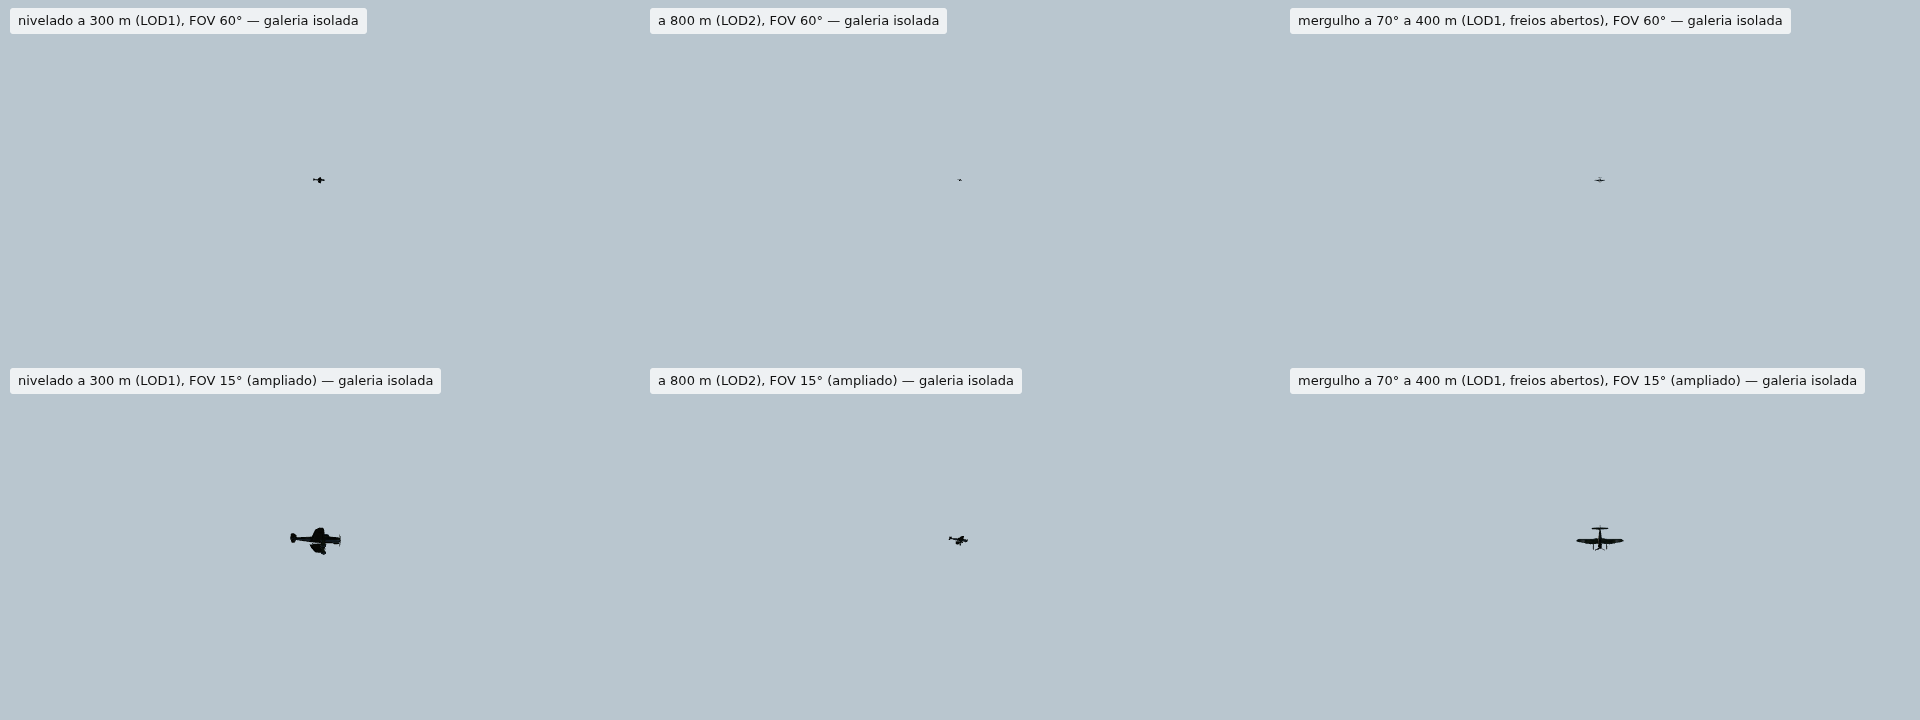
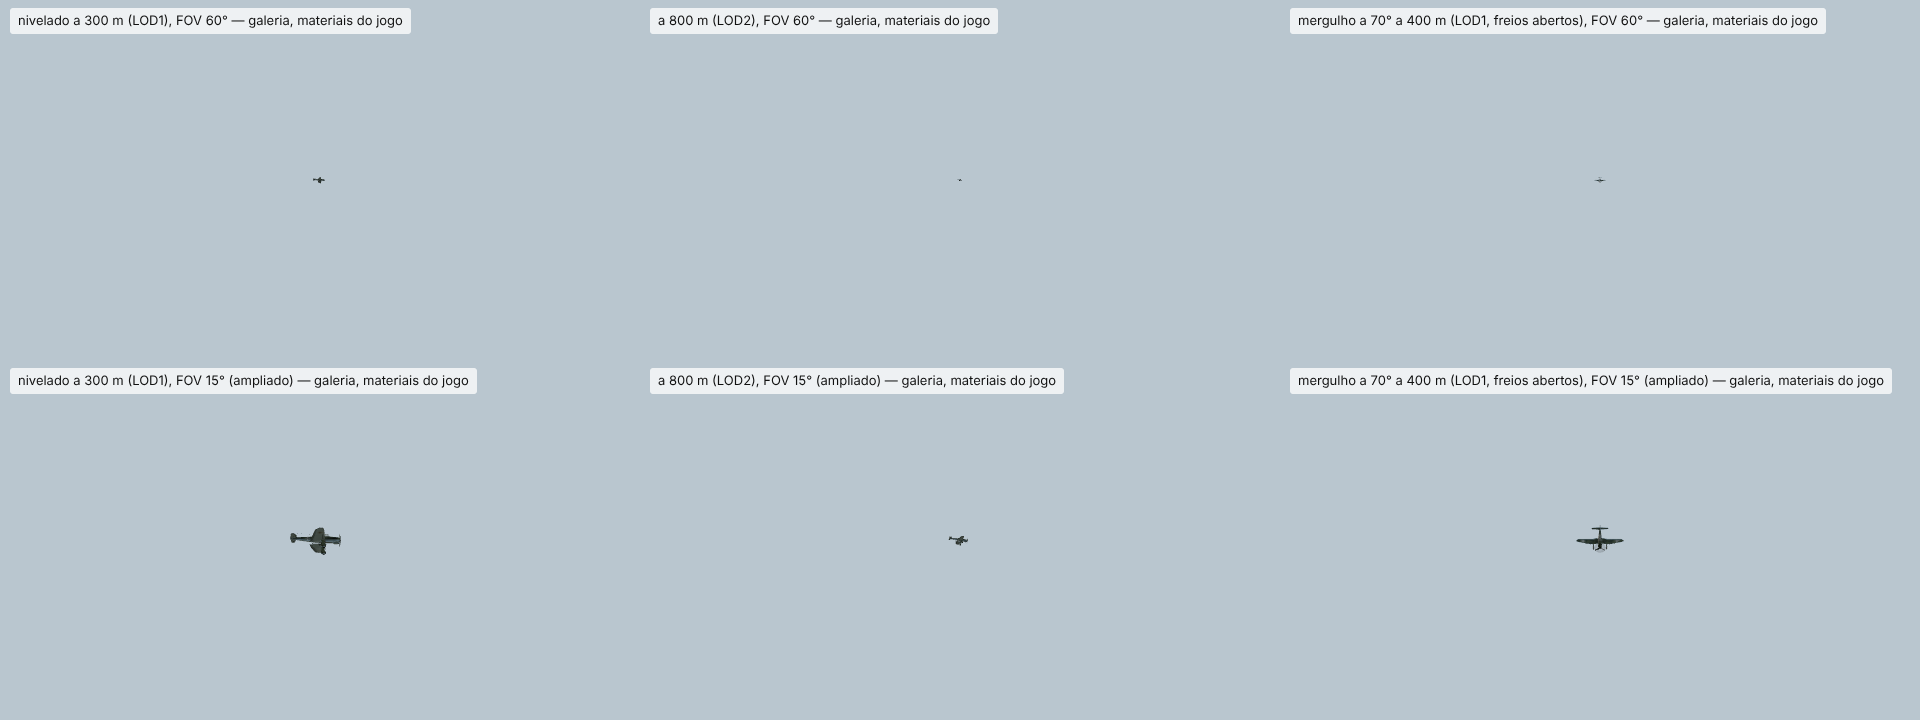
M01 Ju 87: materiais por avião, céu de ambiente, fade e histerese de LOD no runtime
src/render/m01-aircraft.js reúne a apresentação dos três Ju 87 do primeiro
raid; tudo é função do relógio guardado (pausa/restauro determinísticos):
- materiais por avião (clones leves, texturas/geometria partilhadas) com
  pequenas diferenças de tom e rugosidade, sem marcas de unidade inventadas;
- céu de ambiente 256×128 só nos aviões: o vidro e o metal reflectem e a
  barriga RLM 65 recebe o ressalto do solo, em vez de um recorte preto;
- hélices com rpm e fase próprias;
- inclinação para o lado da deriva lateral do caminho e pequenas
  oscilações, sem mudar posição nem rumo (rotation.y = 0,1);
- LOD com histerese de 10 % (o mínimo por qualidade prevalece);
- fade por dithering (alphaHash) na entrada após evt_m01_planes_heard e na
  volta de 90 s do caminho, que teleportava os aviões ~360 m.

Trajectória, tempos, eventos, dano e Simulation inalterados; diagnósticos
m01.aircraft ganham attitude e fade. A galeria pode aplicar os materiais
do jogo (opção runtime) e render/raid-capture.mjs captura o raid real no
build de produção com contadores do renderer.

Claude-Session: https://claude.ai/code/session_01Gg7oQ5diRFBEMTGkVrQZpi

diff --git a/src/render/m01-view.js b/src/render/m01-view.js
@@ -18,6 +18,7 @@ import { M01Panzerzug } from './m01-panzerzug.js';
 import {soldierVisualVariant} from './m01-soldier-variation.js';
 import { M01CombatFeedback } from './m01-combat-feedback.js';
 import {M01BridgePortalPolish,bridgeMaterialSlot} from './m01-bridge-portal-polish.js';
+import {JU87_LOD_DISTANCES,JU87_QUALITY_FLOOR,ju87Attitude,ju87Fade,ju87PropellerTime,selectJu87Level,ju87SkyEnvironment,instanceJu87Materials,setJu87Fade} from './m01-aircraft.js';
 
 export const M01_BATTLEFIELD_FX_LIMITS=Object.freeze({bursts:16,flash:16,core:48,fire:96,smoke:128,dust:128,shards:96,lights:1});
 const FX_DENSITY={low:.55,medium:.78,high:1};
@@ -381,7 +382,7 @@ export class M01View {
     this.carryBody.visible=this.carryCrate.visible=false;
   }
   createAircraft(){
-    this.planes=[];this.aircraftSources=new Map();this.aircraftMixers=[];this.aircraftRevision=0;
+    this.planes=[];this.aircraftSources=new Map();this.aircraftMixers=[];this.aircraftMaterials=[];this.aircraftRevision=0;
     for(let i=0;i<3;i++){
       const plane=new THREE.LOD(),proxy=new THREE.Group();plane.autoUpdate=false;proxy.userData.lod='proxy';this.scene.add(plane);
       this.mesh('box','dark',[0,0,0],[1.2,1.3,11],proxy);
@@ -404,29 +405,35 @@ export class M01View {
       }catch{/* The existing silhouette keeps the raid visible when optional art is unavailable. */}
     }));
     if(this.disposed||!this.aircraftSources.size)return;
-    for(const plane of this.planes){
-      plane.clear();plane.levels.length=0;
+    const sky=this.aircraftSky??=ju87SkyEnvironment();
+    this.planes.forEach((plane,i)=>{
+      plane.clear();plane.levels.length=0;plane.userData.level=null;
       for(const lod of [0,1,2]){
         const source=this.aircraftSources.get(lod);if(!source)continue;
         const model=source.scene.clone(true);model.userData.lod=lod;
         // The raid's bomb type and individual releases are not established: keep the optional payload hidden.
         const bomb=model.getObjectByName('bomb_sc250');if(bomb)bomb.visible=false;
+        model.userData.materials=instanceJu87Materials(model,i,sky);this.aircraftMaterials.push(...model.userData.materials);
         const mixer=new THREE.AnimationMixer(model),spin=source.animations.find(c=>c.name==='propeller_spin');
         if(spin)mixer.clipAction(spin).play();model.userData.propellerMixer=mixer;this.aircraftMixers.push(mixer);
-        plane.addLevel(model,[0,150,600][lod]);
+        plane.addLevel(model,JU87_LOD_DISTANCES[lod]);
       }
-    }
+    });
     this.aircraftRevision++;
   }
-  updateAircraft(state,time,player){
-    const quality=this.owner.quality;
+  updateAircraft(state,time,player,heardAt){
+    const floor=JU87_QUALITY_FLOOR[this.owner.quality]??0,fade=ju87Fade(time,heardAt);
     this.planes.forEach((plane,i)=>{
-      plane.visible=state.stukas;plane.position.set(80+Math.sin(time*.02+i)*250,160+i*20,240-time%90*4+i*30);plane.rotation.y=.1;
+      // The raid path and heading are unchanged; attitude, fade and LOD below are presentation only.
+      plane.visible=state.stukas;plane.position.set(80+Math.sin(time*.02+i)*250,160+i*20,240-time%90*4+i*30);
+      const {pitch,bank}=ju87Attitude(time,i);plane.rotation.set(pitch,.1,bank,'YXZ');
       const distance=Math.hypot(plane.position.x-player.x,plane.position.y-player.y,plane.position.z-player.z);
-      const selected=plane.getObjectForDistance(Math.max(distance,quality==='low'?600:quality==='medium'?150:0));
-      for(const {object} of plane.levels)object.visible=object===selected;
-      // Deterministic presentation at an estimated 1500 rpm; pause and restore sample the same saved clock.
-      selected?.userData.propellerMixer?.setTime((time*25)%1);
+      const level=selectJu87Level(plane.levels,distance,floor,plane.userData.level),selected=plane.levels[level]?.object;
+      plane.userData.level=level;plane.userData.fade=fade;
+      for(const {object} of plane.levels)object.visible=object===selected&&fade>.004;
+      if(selected?.userData.materials)setJu87Fade(selected.userData.materials,fade);
+      // Deterministic presentation at an estimated ~1500 rpm; pause and restore sample the same saved clock.
+      selected?.userData.propellerMixer?.setTime(ju87PropellerTime(time,i));
     });
     this.raidPlane.visible=state.secondRaid;this.raidPlane.position.set(-700,1100,800-(time%150)*8);
   }
@@ -480,7 +487,7 @@ export class M01View {
     for(const kit of this.kit)for(const piece of kit.pieces){const s=state.parts[piece.name];piece.node.visible=Boolean(s&&s.visible&&s.lod===kit.file.lod);}
     this.updateActors(sim.actors,time,sim.player,sim.battleClock);this.syncDamage(sim,state);this.lighting(sim);
     this.train.visible=state.train963;this.panzerzug.visible=state.panzerzug;
-    this.updateAircraft(state,time,sim.player);
+    this.updateAircraft(state,time,sim.player,sim.consumed?.evt_m01_planes_heard);
     const player=sim.player,eye=eyePosition(player),dir=aimDirection(player.angle,player.pitch);
     const bob=player.moveBlend*Math.sin(time*(player.sprinting?14:9))*.014;
     const legacyShake=time<this.shakeUntil?Math.sin(time*85)*.012:0,feedback=this.combatFeedback.sample(time,this.owner.quality);
@@ -532,14 +539,14 @@ export class M01View {
     requiredAssetFailures:this.assets.failures.filter(f=>manifest.files.some(m=>typeof m.lod==='number'&&m.file===f.path)),
     characters:this.characters?.diagnostics,viewModel:this.viewModel?.stats,
     locomotive:this.locomotive.diagnostics,panzerzug:this.panzerzugArt.diagnostics,wagons:this.wagons.diagnostics,yardWagons:this.yardWagons.diagnostics,
-    aircraft:{loaded:[...this.aircraftSources.keys()].sort(),planes:this.planes.map(p=>{const model=p.levels.find(l=>l.object.visible)?.object,prop=model?.getObjectByName('propeller');return {visible:p.visible,lod:model?.userData.lod,position:p.position.toArray(),propeller:prop?.quaternion.toArray()};})},
+    aircraft:{loaded:[...this.aircraftSources.keys()].sort(),planes:this.planes.map(p=>{const model=p.levels.find(l=>l.object.visible)?.object,prop=model?.getObjectByName('propeller');return {visible:p.visible,lod:model?.userData.lod,position:p.position.toArray(),attitude:[p.rotation.x,p.rotation.y,p.rotation.z],fade:p.userData.fade,propeller:prop?.quaternion.toArray()};})},
     renderedFrames:this.renderedFrames??0,smokePuffs:this.atmosphere.count,environmentInstances:this.environment?.resources.reduce((n,b)=>n+(b.visible===false?0:b.count),0)??0,
     environmentProps:this.environment?.propDiagnostics,bridgePortalPolish:this.portalPolish?.diagnostics,vegetation:this.environment?.diagnostics,actorPoses:{...this.actorPoses},actorAnimations:{...this.actorAnimations},
     visiblePieces:this.kit.reduce((n,k)=>n+k.pieces.filter(p=>p.node.visible).length,0),fireEffects:{...this.fx},muzzlePresentation:{...this.muzzlePresentation},
     combatFeedback:this.combatFeedback.diagnostics(this.lastClock,this.owner.quality),
     battlefieldFx:{active:this.bursts.length,counts:{...this.battlefieldFxCounts},limits:M01_BATTLEFIELD_FX_LIMITS,extraLights:this.explosionLight?.visible?1:0,atmosphere:this.atmosphere.diagnostics}};}
   dispose(){
-    this.disposed=true;for(const mixer of this.aircraftMixers){mixer.stopAllAction();mixer.uncacheRoot(mixer.getRoot());}this.viewModel?.dispose();this.characters?.dispose();
+    this.disposed=true;for(const mixer of this.aircraftMixers){mixer.stopAllAction();mixer.uncacheRoot(mixer.getRoot());}for(const m of this.aircraftMaterials??[])m.dispose();this.aircraftSky?.dispose();this.viewModel?.dispose();this.characters?.dispose();
     this.yardWagons.dispose();this.wagons.dispose();this.locomotive.dispose();this.panzerzugArt.dispose();this.portalPolish?.dispose();this.assets.dispose();this.environment?.dispose();this.atmosphere.dispose();this.contactMaterial?.dispose();this.geometry.forEach(g=>g.dispose());
     const textures=new Set();for(const m of Object.values(this.materials)){if(m.map)textures.add(m.map);if(m.bumpMap)textures.add(m.bumpMap);m.dispose();}textures.forEach(t=>t.dispose());
     this.scene.traverse(n=>{if(n.isInstancedMesh)n.dispose();});this.scene.clear();this.weaponScene.clear();

diff --git a/tests/m01-aircraft-runtime.test.js b/tests/m01-aircraft-runtime.test.js
@@ -53,3 +53,62 @@ test('missing optional Ju 87 art keeps the silhouettes; partial failure uses ava
   assert.equal(cancelled.aircraftRevision,0);assert.equal(cancelled.aircraftMixers.length,0);
   assert.ok(cancelled.planes.every(p=>p.levels.length===1));
 });
+
+function namedFixture(){
+  // Same node/material layout as the generated GLB: atlas body, translucent canopy and propeller disc.
+  const {view,sources}=fixture();
+  for(const [lod,{scene}] of sources){
+    const body=new THREE.MeshStandardMaterial({name:'ju87_b1',map:new THREE.Texture()}),glass=new THREE.MeshStandardMaterial({name:'ju87_glass',transparent:true,opacity:.3});
+    scene.getObjectByName('propeller').material=body;
+    for(const [name,material] of [['fuselage',body],['canopy',glass]]){const m=new THREE.Mesh(view.box,material);m.name=name;scene.add(m);}
+    scene.userData.body=body;scene.userData.lod=lod;
+  }
+  return {view,sources};
+}
+
+test('each Ju 87 gets its own light-weight material instances over shared textures, propeller rpm/phase and attitude',async()=>{
+  const {view,sources}=namedFixture();await view.loadAircraft();
+  const time=33.4,state={stukas:true,secondRaid:false},player={x:0,y:0,z:0};view.owner.quality='high';
+  view.updateAircraft(state,time,player);
+  const bodies=view.planes.map(p=>p.levels[0].object.getObjectByName('fuselage').material);
+  assert.equal(new Set(bodies).size,3,'one material instance per aircraft');
+  assert.ok(bodies.every(m=>m.map===sources.get(0).scene.userData.body.map&&m.alphaHash&&m.envMap===view.aircraftSky),'textures shared, dithered fade, sky reflections');
+  assert.equal(sources.get(0).scene.userData.body.alphaHash,false,'source GLB material is never modified');
+  assert.notDeepEqual(bodies[1].color.toArray(),bodies[0].color.toArray(),'paint batches differ slightly');
+  const model=view.planes[0].levels[0].object;assert.equal(model.getObjectByName('propeller').material,model.getObjectByName('fuselage').material,'one instance per GLB material');
+  const props=view.planes.map(p=>p.levels.find(l=>l.object.visible).object.getObjectByName('propeller').quaternion.toArray());
+  assert.notDeepEqual(props[0],props[1]);assert.notDeepEqual(props[1],props[2]);
+  // Heading and path are unchanged; bank/pitch come from the same saved clock, so pause/restore repeats them.
+  view.planes.forEach((p,i)=>{
+    assert.deepEqual(p.position.toArray(),[80+Math.sin(time*.02+i)*250,160+i*20,240-time%90*4+i*30]);
+    assert.equal(p.rotation.y,.1);assert.equal(p.rotation.order,'YXZ');
+    assert.ok(Math.abs(p.rotation.z)<.11&&Math.abs(p.rotation.x)<.02&&p.rotation.z!==0);
+  });
+  const attitude=view.planes.map(p=>p.rotation.toArray());view.updateAircraft(state,time+7,player);view.updateAircraft(state,time,player);
+  assert.deepEqual(view.planes.map(p=>p.rotation.toArray()),attitude);
+});
+
+test('Ju 87 fade hides the 90 s path wrap and eases in after the planes are heard, deterministically',async()=>{
+  const {view}=namedFixture();await view.loadAircraft();
+  const state={stukas:true,secondRaid:false},player={x:0,y:0,z:0};view.owner.quality='high';
+  const shown=time=>view.planes[0].levels.find(l=>l.object.visible);
+  view.updateAircraft(state,180.0,player);assert.equal(view.planes[0].userData.fade,0);assert.equal(shown(),undefined,'hidden exactly at the wrap');
+  assert.equal(view.planes[0].visible,true,'raid state is unchanged; only the rendering fades');
+  view.updateAircraft(state,181.25,player);const half=view.planes[0].userData.fade,glass=shown().object.getObjectByName('canopy').material;
+  assert.ok(half>.3&&half<.7);assert.ok(Math.abs(glass.opacity-.3*half)<1e-9,'translucent parts fade from their own opacity');
+  view.updateAircraft(state,200,player);assert.equal(view.planes[0].userData.fade,1);
+  assert.equal(shown().object.getObjectByName('fuselage').material.opacity,1);
+  view.updateAircraft(state,200,player,199);const entering=view.planes[0].userData.fade;assert.ok(entering>0&&entering<.5,'fades in after planes_heard');
+  view.updateAircraft(state,215,player,199);assert.equal(view.planes[0].userData.fade,1);
+  view.updateAircraft(state,200,player,199);assert.equal(view.planes[0].userData.fade,entering,'restoring the clock restores the fade');
+});
+
+test('Ju 87 LOD keeps 10 % hysteresis at thresholds while the quality floor always applies',async()=>{
+  const {view}=namedFixture();await view.loadAircraft();const state={stukas:true},time=40;
+  const p0=()=>view.planes[0].position,at=d=>({x:p0().x,y:p0().y-d,z:p0().z});
+  const lod=d=>{view.updateAircraft(state,time,at(d));return view.planes[0].levels.find(l=>l.object.visible).object.userData.lod;};
+  view.owner.quality='high';view.updateAircraft(state,time,{x:0,y:0,z:0});
+  assert.deepEqual([160,145,140,130,160,170,640,670,560,520].map(lod),[1,1,1,0,0,1,1,2,2,1]);
+  view.owner.quality='low';assert.equal(lod(10),2,'low quality never shows LOD0/1');
+  view.owner.quality='medium';assert.equal(lod(10),1);
+});

diff --git a/src/render/m01-aircraft.js b/src/render/m01-aircraft.js
@@ -1,0 +1,69 @@
+import * as THREE from 'three';
+
+// Presentation only for the three Ju 87 of the first raid. Path, timings, events and damage stay with the
+// existing raid code and M01Simulation; everything here is a pure function of the saved clock (pause/restore safe).
+export const JU87_LOD_DISTANCES=Object.freeze([0,150,600]);
+export const JU87_QUALITY_FLOOR=Object.freeze({low:600,medium:150,high:0});
+// Small per-aircraft differences (paint batch, wear, engine): not unit markings, which remain undocumented.
+export const JU87_VARIANTS=Object.freeze([
+  Object.freeze({tint:[1,1,1],roughness:1,rps:25,phase:0}),
+  Object.freeze({tint:[.95,.98,.94],roughness:.93,rps:24.6,phase:.37}),
+  Object.freeze({tint:[1.04,1.03,.99],roughness:1.06,rps:25.4,phase:.71}),
+]);
+const JU87_LOOP=90,FADE_S=2.5,ENTER_S=3,LOD_HYSTERESIS=.1;
+const smooth=x=>{const t=Math.min(1,Math.max(0,x));return t*t*(3-2*t);};
+const variantOf=i=>JU87_VARIANTS[i%JU87_VARIANTS.length];
+
+/** Bank into the existing lateral drift plus slight per-aircraft motion; heading (rotation.y) is unchanged. */
+export function ju87Attitude(time,i){
+  return {pitch:.018*Math.sin(time*.47+i*1.7),bank:-.07*Math.cos(time*.02+i)+.03*Math.sin(time*.61+i*2.3)};
+}
+/** Dithered visibility: fade in after the planes are heard and across the 90 s wrap of the existing path. */
+export function ju87Fade(time,heardAt){
+  const cycle=((time%JU87_LOOP)+JU87_LOOP)%JU87_LOOP,wrap=Math.min(smooth(cycle/FADE_S),smooth((JU87_LOOP-cycle)/FADE_S));
+  return Number.isFinite(heardAt)?Math.min(wrap,smooth((time-heardAt)/ENTER_S)):wrap;
+}
+/** Propeller clip time (one revolution = 1 s) at ~1500 rpm, each aircraft with its own rpm and phase. */
+export function ju87PropellerTime(time,i){const v=variantOf(i),t=(time*v.rps+v.phase)%1;return t<0?t+1:t;}
+/** LOD index with 10 % hysteresis around each threshold; the quality floor always wins. */
+export function selectJu87Level(levels,distance,floor,current){
+  const pick=d=>{let k=0;for(let j=1;j<levels.length;j++)if(d>=levels[j].distance)k=j;return k;};
+  const d=Number.isFinite(distance)?distance:Infinity,min=pick(floor),want=Math.max(min,pick(Math.max(d,floor)));
+  if(!Number.isInteger(current)||current<min||current>=levels.length||current===want)return want;
+  const lo=current?levels[current].distance*(1-LOD_HYSTERESIS):0,hi=current+1<levels.length?levels[current+1].distance*(1+LOD_HYSTERESIS):Infinity;
+  return d>=lo&&d<hi?current:want;
+}
+/**
+ * Tiny equirectangular dawn sky (PMREM is done by three.js) so the canopy and bare metal reflect it and the RLM 65
+ * underside receives the ground bounce that the scene's hemisphere light alone leaves near black against the sky.
+ */
+export function ju87SkyEnvironment(){
+  const w=256,h=128,data=new Uint8Array(w*h*4),zenith=new THREE.Color('#9fb4cc'),horizon=new THREE.Color('#d3d7d2'),ground=new THREE.Color('#6f6752'),c=new THREE.Color();
+  for(let y=0;y<h;y++){
+    const el=((y+.5)/h-.5)*Math.PI;   // row 0 is the bottom of an equirectangular map
+    if(el>=0)c.copy(horizon).lerp(zenith,smooth(el/(Math.PI/2)*1.6));else c.copy(horizon).lerp(ground,smooth(-el/(Math.PI/2)*5));
+    const {r,g,b}=c.getRGB({},THREE.SRGBColorSpace);   // THREE.Color is linear; the texture stores sRGB bytes
+    for(let x=0;x<w;x++)data.set([r*255,g*255,b*255,255].map(Math.round),(y*w+x)*4);
+  }
+  const texture=new THREE.DataTexture(data,w,h);
+  texture.mapping=THREE.EquirectangularReflectionMapping;texture.colorSpace=THREE.SRGBColorSpace;
+  texture.magFilter=texture.minFilter=THREE.LinearFilter;texture.needsUpdate=true;
+  return texture;
+}
+/** Per-aircraft material instances (textures and geometry stay shared) with the variant and a dithered fade. */
+export function instanceJu87Materials(model,i,sky){
+  const v=variantOf(i),own=new Map();
+  model.traverse(o=>{
+    if(!o.isMesh)return;
+    let m=own.get(o.material);
+    if(!m){
+      m=o.material.clone();m.userData.baseOpacity=m.opacity;
+      if(m.name==='ju87_b1'){m.color.multiply(new THREE.Color(...v.tint));m.roughness*=v.roughness;m.alphaHash=true;m.envMap=sky;m.envMapIntensity=.85;}
+      else if(m.name==='ju87_glass'){m.envMap=sky;m.envMapIntensity=1.2;}
+      own.set(o.material,m);
+    }
+    o.material=m;
+  });
+  return [...own.values()];
+}
+export function setJu87Fade(materials,fade){for(const m of materials)m.opacity=m.userData.baseOpacity*fade;}

diff --git a/tools/assets/m01-aircraft/render/viewer.html b/tools/assets/m01-aircraft/render/viewer.html
@@ -15,6 +15,9 @@
 import * as THREE from 'three';
 import { GLTFLoader } from 'three/addons/loaders/GLTFLoader.js';
 import * as SkeletonUtils from 'three/addons/utils/SkeletonUtils.js';
+// Materiais por avião e céu de ambiente exactamente como no jogo (src/render/m01-aircraft.js), para as vistas de voo.
+import { instanceJu87Materials, ju87SkyEnvironment } from '/src/render/m01-aircraft.js';
+const sky = ju87SkyEnvironment();
 
 const renderer = new THREE.WebGLRenderer({ antialias: true, preserveDrawingBuffer: true });
 renderer.setPixelRatio(1);
@@ -47,9 +50,10 @@ window.stage = {
     return cache.get(url);
   },
   /** Adiciona um actor: clone com SkeletonUtils, mostra só as malhas pedidas (por nome ou expressão) e toca um clip. */
-  async add(url, { position = [0, 0, 0], rotationY = 0, rotation = null, show = null, clip = null, time = 0, morphs = null, unskinned = false, anims = null } = {}) {
+  async add(url, { position = [0, 0, 0], rotationY = 0, rotation = null, show = null, clip = null, time = 0, morphs = null, unskinned = false, anims = null, runtime = false } = {}) {
     const gltf = await this.load(url), clipSrc = anims ? await this.load(anims) : gltf;
     const root = SkeletonUtils.clone(gltf.scene);
+    if (runtime) instanceJu87Materials(root, 0, sky);
     if (unskinned) { const list = []; root.traverse(o => { if (o.isSkinnedMesh) list.push(o); }); for (const o of list) { const m = new THREE.Mesh(o.geometry, o.material); m.name = o.name; m.userData = o.userData; o.parent.add(m); o.parent.remove(o); } }
     root.position.set(...position); root.rotation.y = rotationY; if (rotation) root.rotation.set(...rotation, 'YXZ');
     const info = { meshes: [], triangles: 0, drawCalls: 0, bones: 0 };

diff --git a/tools/assets/m01-aircraft/README.md b/tools/assets/m01-aircraft/README.md
@@ -5,6 +5,6 @@ Gera `assets/models/provisional/m01-aircraft/`, com o Ju 87 B-1 em LOD0/1/2, a h
 - `src/ju87.mjs`: planta, peças, pivôs, sockets, pintores e proveniência das medidas (`MEASURES`).
 - Geometria, atlas, ruído e texturas vêm de `../m01-soldiers/src/` (é preciso `npm ci` também nessa pasta).
 - `build.mjs`: atlas, LODs (meshoptimizer), GLB com animações (gltf-transform) e manifesto.
-- `render/`: galeria isolada (three.js e Playwright do repositório) e `import-report.json`.
+- `render/`: galeria isolada (three.js e Playwright do repositório) e `import-report.json`; a opção `runtime` do viewer aplica os materiais e o céu de ambiente do jogo (`src/render/m01-aircraft.js`). `render/raid-capture.mjs` captura o primeiro raid real no build de produção (`npm run build && npm run preview`), em várias qualidades, com recorte 1:1 ampliado e contadores do renderer.
 
 Instruções, variante, fontes e integração: [`docs/assets/m01-aircraft/README.md`](../../../docs/assets/m01-aircraft/README.md).
